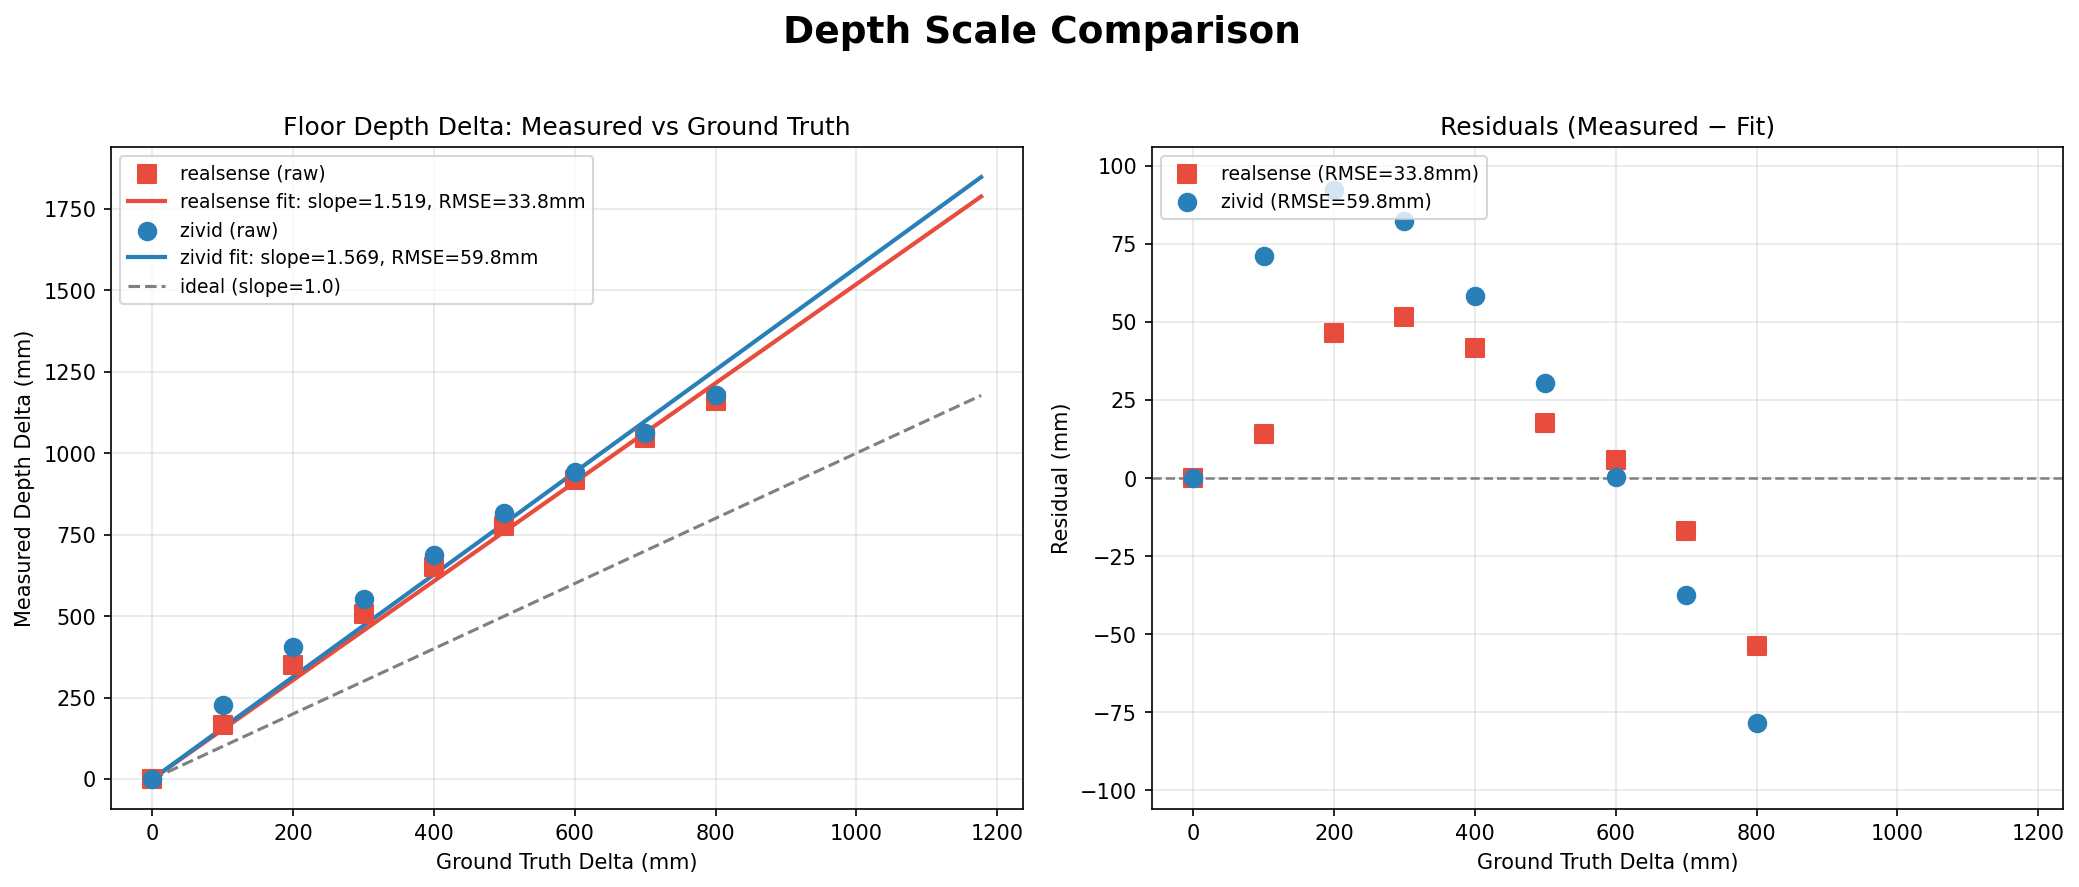
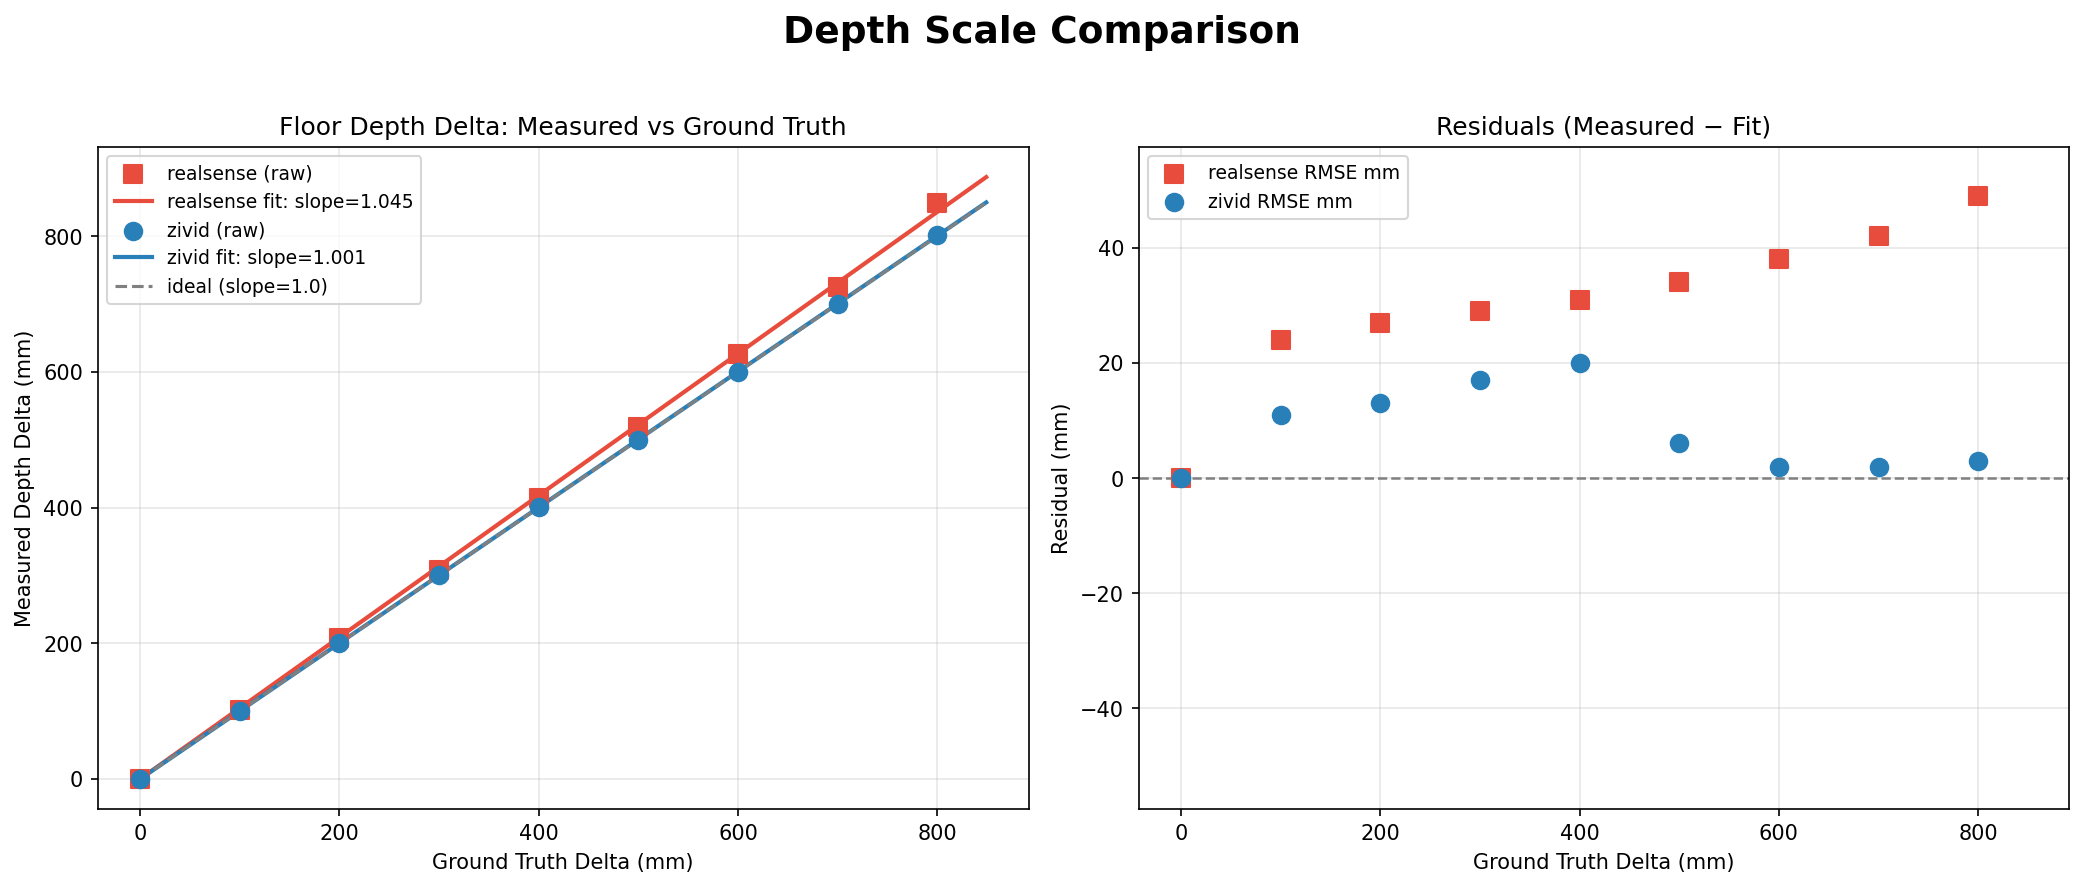
before merge

diff --git a/scripts/benchmark_inbolt_fast_foundation.py b/scripts/benchmark_inbolt_fast_foundation.py
@@ -345,6 +345,8 @@ def build_example_depth_scale_regression_series(
     zv_delta_mm,
     fs_delta_mm=None,
     ftn_delta_mm=None,
+    rs_rsme_mm=None,
+    zv_rsme_mm=None
 ) -> dict:
     """Return example depth-delta series that reproduces the attached figure.
 
@@ -361,6 +363,7 @@ def build_example_depth_scale_regression_series(
         "realsense": {
             "gt_delta_mm": gt_delta_mm,
             "measured_delta_mm": rs_delta_mm,
+            "rmse_mm": rs_rsme_mm,
             "color": "#e74c3c",
             "marker": "s",
             "label": "realsense",
@@ -368,6 +371,7 @@ def build_example_depth_scale_regression_series(
         "zivid": {
             "gt_delta_mm": gt_delta_mm,
             "measured_delta_mm": zv_delta_mm,
+            "rmse_mm": zv_rsme_mm,
             "color": "#2980b9",
             "marker": "o",
             "label": "zivid",
@@ -436,6 +440,7 @@ def plot_depth_scale_regression(
         result["label"] = cfg.get("label", default_name)
         result["color"] = cfg.get("color", None)
         result["marker"] = cfg.get("marker", "o")
+        result["rmse_mm"] = result["rmse_mm"] if "rmse_mm" not in cfg else cfg["rmse_mm"]
         fit_results.append(result)
         max_x = max(max_x, float(np.max(result["gt_delta_mm"])))
         max_y = max(max_y, float(np.max(result["measured_delta_mm"])))
@@ -452,6 +457,7 @@ def plot_depth_scale_regression(
         slope = result["slope"]
         intercept = result["intercept"]
         rmse = result["rmse_mm"]
+        print(rmse)
 
         axes[0].scatter(x, y, color=color, marker=marker, s=70, label=f"{label} (raw)", zorder=3)
         axes[0].plot(
@@ -460,21 +466,22 @@ def plot_depth_scale_regression(
             color=color,
             linewidth=2.0,
             label=(
-                f"{label} fit: slope={slope:.3f}, intercept={intercept:.1f}mm, RMSE={rmse:.1f}mm"
+                f"{label} fit: slope={slope:.3f}, intercept={intercept:.1f}mm"
                 if fit_intercept else
-                f"{label} fit: slope={slope:.3f}, RMSE={rmse:.1f}mm"
+                f"{label} fit: slope={slope:.3f}"
             ),
         )
 
         axes[1].scatter(
             x,
-            result["residuals_mm"],
+            rmse, #result["residuals_mm"],
             color=color,
             marker=marker,
             s=70,
-            label=f"{label} (RMSE={rmse:.1f}mm)",
+            label=f"{label} RMSE mm",
             zorder=3,
         )
+    
 
     axes[0].plot(
         fit_x,
@@ -502,6 +509,7 @@ def plot_depth_scale_regression(
 
     residual_values = np.concatenate([r["residuals_mm"] for r in fit_results])
     residual_abs_max = max(1.0, float(np.max(np.abs(residual_values))))
+    residual_abs_max = 50
     axes[1].set_ylim(-residual_abs_max * 1.15, residual_abs_max * 1.15)
 
     fig.suptitle(title, fontsize=18, fontweight="bold")
@@ -651,6 +659,8 @@ def main_inbolt_graphs_with_projection():
     gt_depth_diff = np.arange(n)*100 # mm
     rs_depth_diff = np.arange(n)*0 # mm
     zv_depth_diff = np.arange(n)*0 # zivid mm
+    rs_depth_rsme = np.arange(n)*0 # mm
+    zv_depth_rsme = np.arange(n)*0 # zivid mm    
     rs_ref = None
     zv_ref = None
     for idx in range(n):
@@ -661,19 +671,25 @@ def main_inbolt_graphs_with_projection():
         rs_mm = data['depth_rs'].astype(np.float32)   # RealSense depth in mm
 
         # project zivid on rs
-        zv_mm = project_depth_zivid_to_rs(zv_mm, rs_mm, finx = idx)
+        zv_prj_mm = project_depth_zivid_to_rs(zv_mm, rs_mm, finx = idx)
 
-        #rs_valid           = (rs_mm > rs_mm.max()*0.8) 
-        zv_valid           = (zv_mm > zv_mm.max()*0.1) 
+
+        rs_valid           = (10 < rs_mm) 
+        rs_valid           = rs_valid & (rs_mm < rs_mm[rs_valid].min()*1.2) 
+        zv_valid           = (10 < zv_prj_mm) 
+        zv_valid           = zv_valid & (zv_prj_mm < zv_prj_mm[zv_valid].min()*1.2) & rs_valid
         if idx == 0:
             rs_ref = rs_mm
-            zv_ref = zv_mm
+            zv_ref = zv_prj_mm
         else:
-            rs_depth_diff[idx] = np.nanmean(rs_mm[zv_valid] - rs_ref[zv_valid])
-            zv_depth_diff[idx] = np.nanmean(zv_mm[zv_valid] - zv_ref[zv_valid])
+            rs_diff = rs_mm[zv_valid] - rs_ref[zv_valid]
+            zv_diff = zv_prj_mm[zv_valid] - zv_ref[zv_valid]
+            rs_depth_diff[idx] = np.mean(rs_diff)
+            zv_depth_diff[idx] = np.mean(zv_diff)
+            rs_depth_rsme[idx] = np.sqrt(np.mean((rs_diff - rs_depth_diff[idx])**2))
+            zv_depth_rsme[idx] = np.sqrt(np.mean((zv_diff - zv_depth_diff[idx])**2))
 
-
-    sm = build_example_depth_scale_regression_series(gt_depth_diff, rs_depth_diff, zv_depth_diff)
+    sm = build_example_depth_scale_regression_series(gt_depth_diff, rs_depth_diff, zv_depth_diff, rs_rsme_mm=rs_depth_rsme, zv_rsme_mm=zv_depth_rsme)
     plot_depth_scale_regression(sm, out_path=Path(DEFAULT_OUT) / "depth_scale_comparison.png", title="Depth Scale Comparison")
 
     logging.info(f"All outputs written to {out_dir}")
